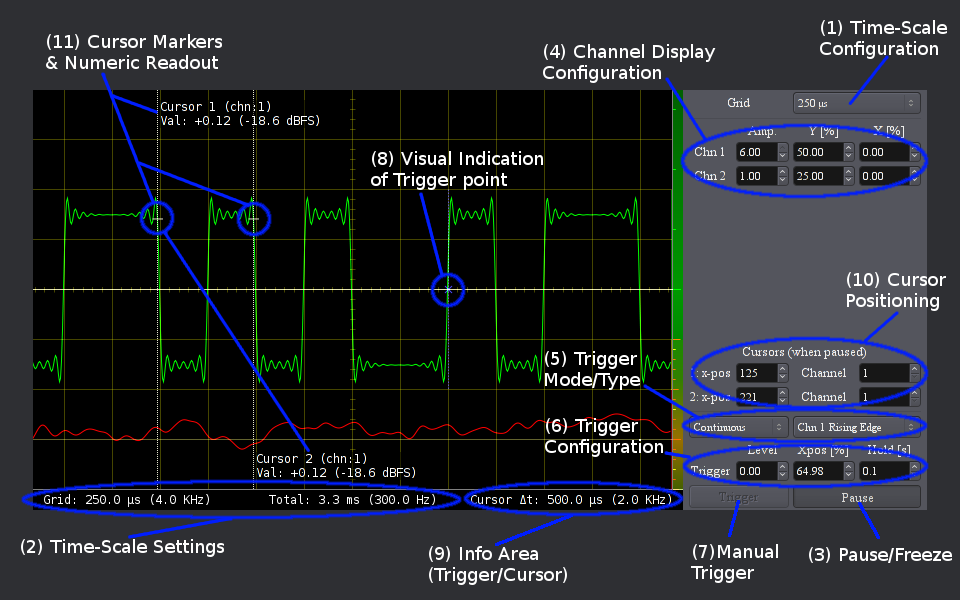
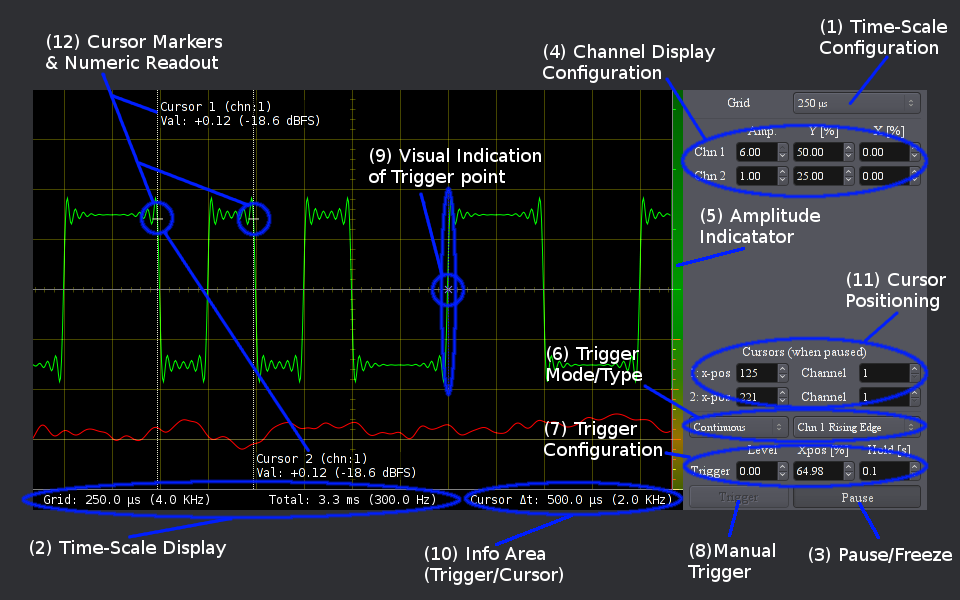
update documentation

diff --git a/index.html b/index.html
@@ -54,17 +54,17 @@ This allows to adjust the display even in 'paused' mode after sampling a signal.
 <dl>
 <dt>(1) Time-Scale Configuration</dt><dd>Allows to set horizontal grid-spacing in a range from 50 &#181;sec to 1 second. The maximum oversampling-factor is 32. If the plugin runs at sampling-rates below than 32KSPS, the actual grid may differ from the selected setting. Check numeric the display (2) for the actual scale. The setting can be modified while paused (3) but will only become effective with the next acquisition run.</dd>
 <dt>(2) Time-Scale Display</dt><dd>Actual time-scale display. The unit per horizontal grid and the total range of data-acquisition is displayed in both seconds and Hz. Usually the value is identical to the setting of (1), but may differ for low or odd sample-rates. This readout is based on actual samples-per-pixel mapping and always valid for the displayed data.</dd>
-</dl>
 <dt>(3) Pause Toggle Button</dt><dd>Allows to freeze the display in order to inspect acquired data. Pause is only available in free-run (no trigger) and in continuous-trigger after a complete acquisition cycle has been completed. Freezing the display also enables cursors (10, 11) to analyze the data.</dd>
 <dt>(4) Per Channel Amplitude Settings</dt><dd>Allows to alter the waveform display. Vertical Zoom and polarity can be set with the "Amp" dial in a range from -6 to +6 (linear scale, corresponding to 30dB), X and Y offset are in percent of the screen width. These settings apply to the display-buffer only and hence can also be modified even when acquisition is paused.</dd>
-<dt>(5) Trigger Mode and Type</dt><dd>Allows to select trigger mode [Off, Manual, Contd] and Type [rising edge, falling edge and channel].</dd>
-<dt>(6) Trigger Settings</dt><dd>When triggering is enabled, the trigger-level can be set in the range corresponding to raw audio-data [-1..+1]. The X-position allows to position the trigger point in percent of screen-width. Note that the wave-form will only be displayed once the trigger position has been reached. Setting this value to 100% will avoid any flickering. The hold-time is only available in continuous trigger mode. It specifies the minimal delay between two acquisition cycles.</dd>
-<dt>(7) Manual Trigger Button</dt><dd>Only available in Manual Trigger mode, initiate a single sweep honoring trigger-settings(6).</dd>
-<dt>(8) Trigger Indicator</dt><dd>A vertical dashed line indicating trigger position and channel and a cross at the given trigger level.</dd>
-<dt>(9) Info Area</dt><dd>When pause this area displays the time delta between the two cursor points in both seconds and Hertz. When running, this area is used to display trigger-status (if any).</dd>
-<dt>(10) Cursor Settings</dt><dd>Allows to set horizontal position of cursors for numeric readout when the display is paused. Regardless of channels, two cursors are available. The x-position is given in pixels from the left screen edge. The channel number for each cursor defines the numeric readout: The sample-value of the specified channel at given x-position is printed on the display.<dd>
-<dt>(11) Cursor</dt><dd>Visual Markers indicating signal level at given cursor position. At low-zoom levels - ie when one pixel corresponds to more than one raw audio sample - the minimum and maximum signal level is displayed.</dd>
-</div>
+<dt>(5) Amplitude Indicator</dt><dd>Color-coded indication of channel-amplitude range (green: left/chn 1, red: right/chn 2).</dd>
+<dt>(6) Trigger Mode and Type</dt><dd>Allows to select trigger mode [Off, Manual, Contd] and Type [rising edge, falling edge and channel].</dd>
+<dt>(7) Trigger Settings</dt><dd>When triggering is enabled, the trigger-level can be set in the range corresponding to raw audio-data [-1..+1]. The X-position allows to position the trigger point in percent of screen-width. Note that the wave-form will only be displayed once the trigger position has been reached. Setting this value to 100% will avoid any flickering. The hold-time is only available in continuous trigger mode. It specifies the minimal delay between two acquisition cycles.</dd>
+<dt>(8) Manual Trigger Button</dt><dd>Only available in Manual Trigger mode, initiate a single sweep honoring trigger-settings(6).</dd>
+<dt>(9) Trigger Indicator</dt><dd>A vertical dashed line indicating trigger position and channel and a cross at the given trigger level.</dd>
+<dt>(10) Info Area</dt><dd>When pause this area displays the time delta between the two cursor points in both seconds and Hertz. When running, this area is used to display trigger-status (if any).</dd>
+<dt>(11) Cursor Settings</dt><dd>Allows to set horizontal position of cursors for numeric readout when the display is paused. Regardless of channels, two cursors are available. The x-position is given in pixels from the left screen edge. The channel number for each cursor defines the numeric readout: The sample-value of the specified channel at given x-position is printed on the display.</dd>
+<dt>(12) Cursor</dt><dd>Visual Markers indicating signal level at given cursor position. At low-zoom levels - ie when one pixel corresponds to more than one raw audio sample - the minimum and maximum signal level is displayed.</dd>
+</dl>
 <!-- start of page !-->
 <table>
 <tr><th rowspan="2" class="first">Class</th><th rowspan="2">Name</th><th colspan="2">Audio/Midi/CTRL</th><th rowspan="2">Description</th><th rowspan="2">Author</th><th rowspan="2">URI</th>
@@ -74,8 +74,8 @@ This allows to adjust the display even in 'paused' mode after sampling a signal.
 <tr><td class="first center">Analyser</td><td><a href="http___gareus_org_oss_lv2_sisco_Stereo.html">Simple Scope (Stereo)</a></td><td class="center">2/0/1</td><td class="center">2/0/1</td><td>Two channel audio oscilloscope with variable time scale, triggering, markers and numeric readout.</td><td class="center"><a href="mailto:robin@gareus.org" rel="nofollow" class="nl">Robin Gareus</a></td><td><a href="http://gareus.org/oss/lv2/sisco#Stereo" rel="nofollow" class="nl">http://gareus.org/oss/lv2/sisco#Stereo</a></td></tr>
 <tr><td class="last" colspan="7"></td></tr>
 </table>
-<!-- end of page !-->
+</div>
 <div style="clear:both;"></div>
-<div class="footer"><hr/>Created by <a href="https://github.com/x42/lv2toweb">lv2toweb</a>. Generated on 2013-11-15 19:33:07 GMT</div>
+<div class="footer"><hr/>Created by <a href="https://github.com/x42/lv2toweb">lv2toweb</a>. Generated on 2013-11-16 12:41:42 GMT</div>
  </body>
  </html>

diff --git a/http___gareus_org_oss_lv2_sisco_Mono.html b/http___gareus_org_oss_lv2_sisco_Mono.html
@@ -202,6 +202,6 @@ var num_ports=4;
 </div>
 <!-- end of page !-->
 <div style="clear:both;"></div>
-<div class="footer"><hr/>Created by <a href="https://github.com/x42/lv2toweb">lv2toweb</a>. Generated on 2013-11-15 19:33:06 GMT</div>
+<div class="footer"><hr/>Created by <a href="https://github.com/x42/lv2toweb">lv2toweb</a>. Generated on 2013-11-16 12:41:42 GMT</div>
  </body>
  </html>

diff --git a/http___gareus_org_oss_lv2_sisco_Stereo.html b/http___gareus_org_oss_lv2_sisco_Stereo.html
@@ -232,6 +232,6 @@ var num_ports=6;
 </div>
 <!-- end of page !-->
 <div style="clear:both;"></div>
-<div class="footer"><hr/>Created by <a href="https://github.com/x42/lv2toweb">lv2toweb</a>. Generated on 2013-11-15 19:33:06 GMT</div>
+<div class="footer"><hr/>Created by <a href="https://github.com/x42/lv2toweb">lv2toweb</a>. Generated on 2013-11-16 12:41:42 GMT</div>
  </body>
  </html>
